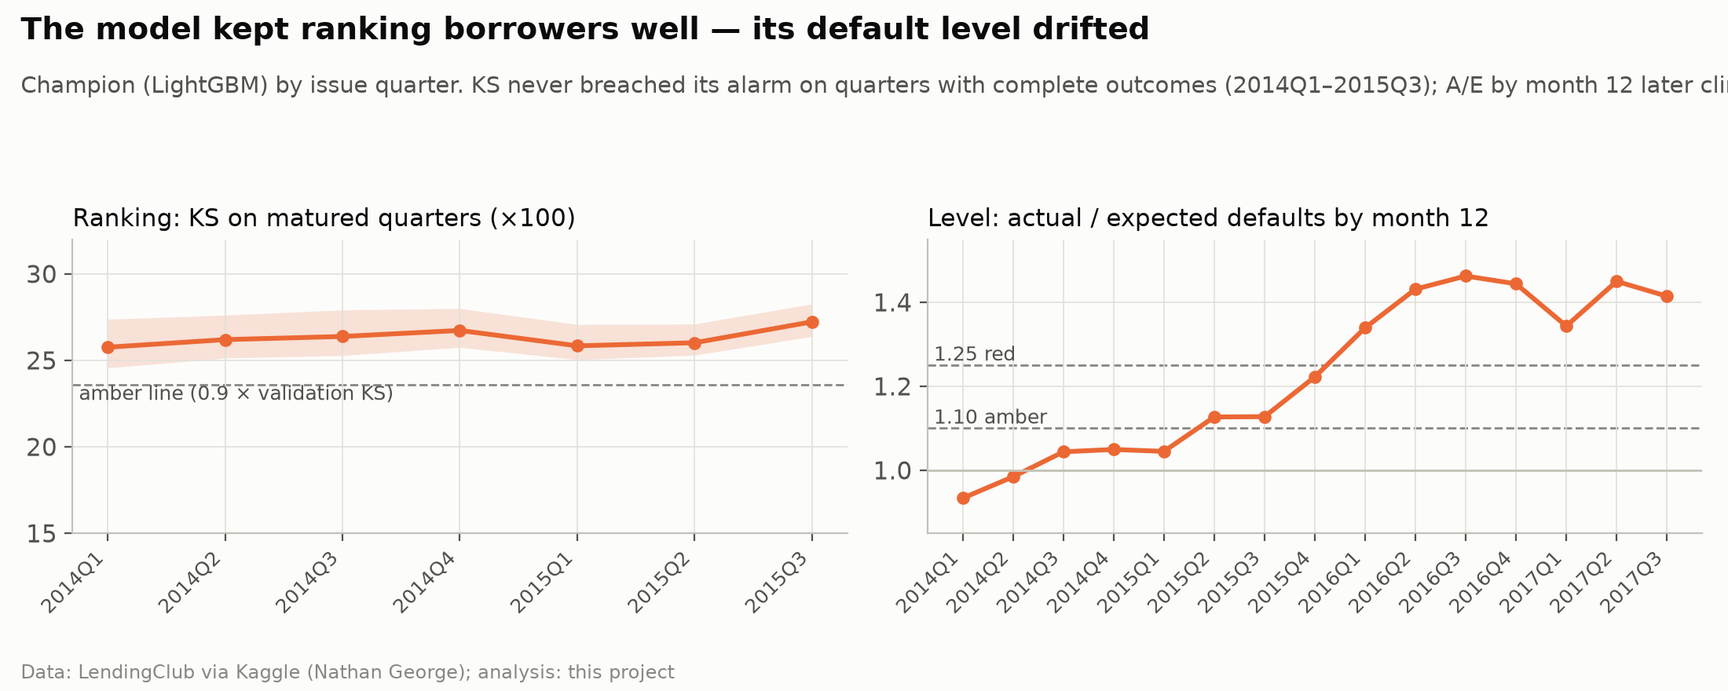
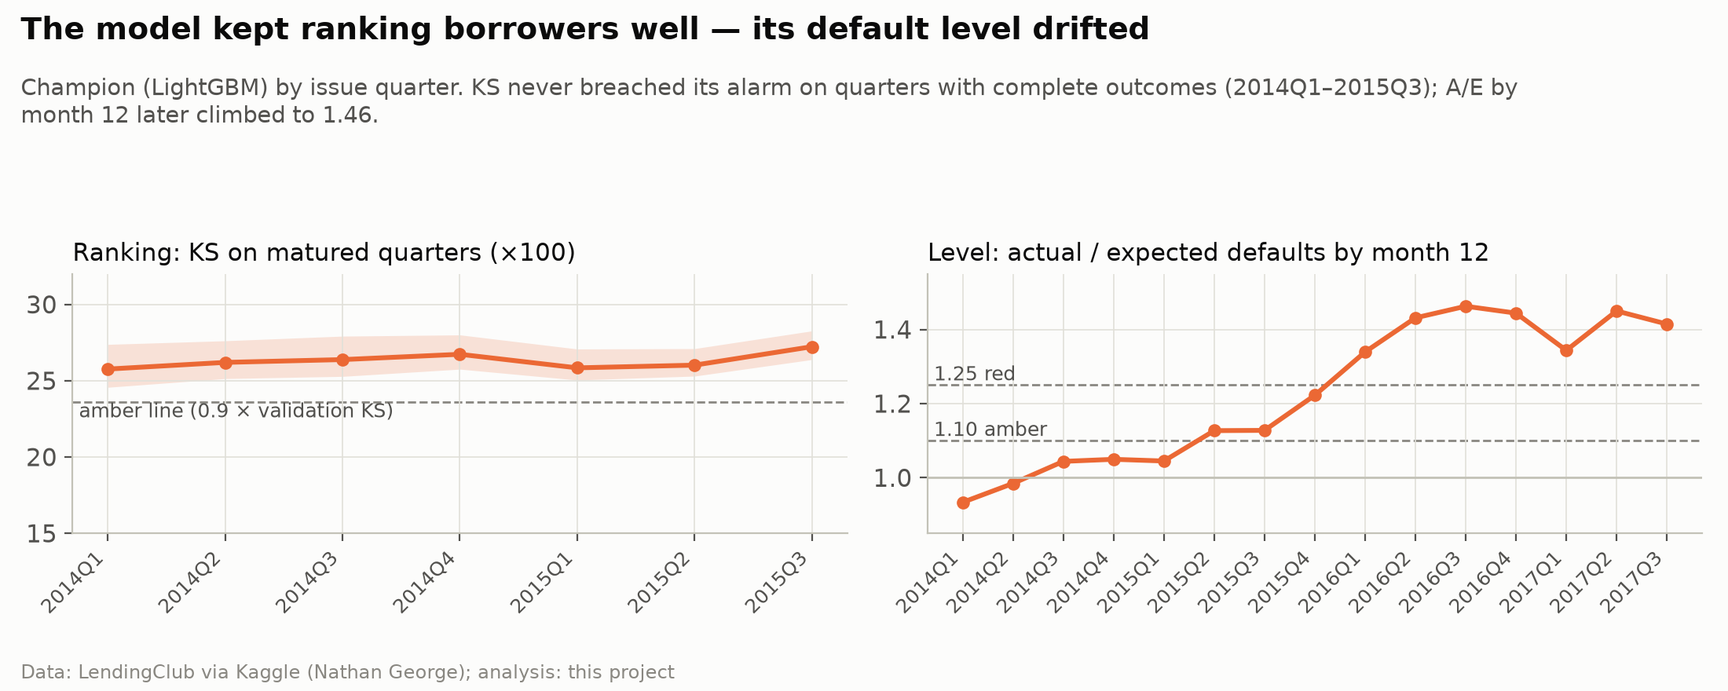
Final pre-publication fixes: one lifetime-PD population, accurate review account, figure wrapping and order
- Lifetime PD: Jan-Sep 2015 vintages (observable to month 36) everywhere: 18.2% / 13.6% / actual 14.7% (survival_A.md, C17 re-derived)
- Article: review history stated accurately (1 critical + 10 major; gate round 1 blocking incl. monotone bug; two results withdrawn)
- Figures: subtitles auto-wrap, build fails on clipped text; renumbered fig1..fig8 in order of appearance
- Rebuild: 62 tests, 36/36 claims, provenance 0 unmatched, re-derivation 31/31

diff --git a/src/report/article_figures.py b/src/report/article_figures.py
@@ -41,12 +41,37 @@ plt.rcParams.update({
 })
 
 
+def _fits(fig, artist, margin=0.985):
+    r = fig.canvas.get_renderer()
+    return artist.get_window_extent(r).x1 <= margin * fig.bbox.width
+
+
 def finish(fig, title, subtitle, name, source=SOURCE):
+    """Title, subtitle (wrapped to as many lines as needed to fit the width) and source; fails if any text is clipped (gate: fig3)."""
+    import textwrap
     h = fig.get_figheight()
     fig.suptitle(title, x=0.012, y=1 - 0.10 / h, ha="left", va="top", fontsize=14, fontweight="bold", color=INK)
-    fig.text(0.012, 1 - 0.48 / h, subtitle, ha="left", va="top", fontsize=10.5, color=INK2)
+    sub = fig.text(0.012, 1 - 0.48 / h, subtitle, ha="left", va="top", fontsize=10.5, color=INK2)
+    width = len(subtitle)
+    while not _fits(fig, sub) and width > 40:
+        width = int(width * 0.9)
+        sub.set_text("\n".join(textwrap.wrap(subtitle, width)))
+    extra = 0.22 * sub.get_text().count("\n")
     fig.text(0.012, 0.08 / h, source, ha="left", fontsize=8.5, color=MUTED)
-    fig.tight_layout(rect=(0, 0.30 / h, 1, 1 - 0.80 / h))
+    fig.tight_layout(rect=(0, 0.30 / h, 1, 1 - (0.80 + extra) / h))
+    fig.canvas.draw()
+    r = fig.canvas.get_renderer()
+    W, Hh = fig.bbox.width, fig.bbox.height
+    drawn = list(fig.texts) + [fig._suptitle]
+    for ax in fig.axes:
+        drawn += [ax.title, ax._left_title, ax._right_title, ax.xaxis.label, ax.yaxis.label] + list(ax.texts)
+        if ax.get_legend():
+            drawn += list(ax.get_legend().get_texts())
+    for t in drawn:
+        if t is None or not t.get_visible() or not str(t.get_text()).strip():
+            continue
+        bb = t.get_window_extent(r)
+        assert bb.x0 >= -1 and bb.x1 <= W + 1 and bb.y0 >= -1 and bb.y1 <= Hh + 1, f"{name}: clipped text {t.get_text()[:40]!r}"
     fig.savefig(OUT / name, dpi=200)
     plt.close(fig)
     print("wrote", OUT / name)
@@ -129,7 +154,7 @@ finish(fig, "The model kept ranking borrowers well — its default level drifted
        f"Champion (LightGBM) by issue quarter. KS never breached its alarm on quarters with complete outcomes (2014Q1–2015Q3); A/E by month 12 later climbed to {m4.AE12_M2.max():.2f}.",
        "fig3_ranking_vs_level.png")
 
-# ------------------------------------------------------------------ Fig 4: PSI is the wrong alarm (calendar time)
+# ------------------------------------------------------------------ Fig 6: PSI is the wrong alarm (calendar time)
 b = load_base(["issue_dt", "issue_q", "bad", "default_mob"]).join(pd.read_parquet(ART / "scores_m2.parquet"))
 b["d6"] = default_by_mob(b.default_mob, 6)
 trm = split_mask(b, TRAIN)
@@ -173,9 +198,9 @@ ax.set_title("Actual / expected defaults, plotted at the date each value became 
 ax.legend(loc="upper left", fontsize=9)
 finish(fig, "Population stability is the wrong alarm: it never fired",
        "Points at the date each value could first be known, if the model were live from 2015 (its own training labels completed only in 2017).",
-       "fig4_alarm_timeline.png")
+       "fig6_alarm_timeline.png")
 
-# ------------------------------------------------------------------ Fig 5: default at MOB 12 by risk band
+# ------------------------------------------------------------------ Fig 7: default at MOB 12 by risk band
 b1 = load_base(["issue_dt", "issue_q", "default_mob"]).join(pd.read_parquet(ART / "scores_m1.parquet", columns=["score_m1"]))
 cuts = np.quantile(b1.loc[split_mask(b1, TRAIN), "score_m1"], [0.2, 0.4, 0.6, 0.8])
 b1["band"] = 1 + np.searchsorted(cuts, b1.score_m1.to_numpy(), side="right")
@@ -194,9 +219,9 @@ ax.set_ylabel("defaulted by month 12, %")
 ax.legend(loc="upper left", fontsize=9, ncol=2)
 finish(fig, "Same score, more defaults: the drift hit every risk band",
        "Share of loans defaulted by month 12, by issue quarter and scorecard band (cut points fixed on 2012–13 training data).",
-       "fig5_bands_mob12.png")
+       "fig7_bands_mob12.png")
 
-# ------------------------------------------------------------------ Fig 6: prepayment as competing risk
+# ------------------------------------------------------------------ Fig 4: prepayment as competing risk
 p2 = pd.read_parquet(INTERIM / "p2_loans.parquet")
 p15 = p2[(p2.yr == 2015) & (p2.issue_dt <= "2015-09-01")].reset_index(drop=True)      # fully observable to MOB 36
 with open(INTERIM / "p2" / "model_A.pkl", "rb") as fh:
@@ -219,9 +244,9 @@ ax.set_ylabel("cumulative default, %")
 ax.legend(loc="upper left")
 finish(fig, f"Treat prepayment as censoring and lifetime PD is overstated by {100*(naive.mean(0)[-1]/C.mean(0)[-1]-1):.0f}%",
        "Loans issued Jan–Sep 2015 (observable to month 36). Model trained on 2012–13; its gap to actual is the 2015 drift.",
-       "fig6_prepayment_competing_risk.png")
+       "fig4_prepayment_competing_risk.png")
 
-# ------------------------------------------------------------------ Fig 7: ECL under-provision + overlay
+# ------------------------------------------------------------------ Fig 8: lifetime-EL backtest + overlay
 ov = json.loads((REP2 / "overlay.json").read_text())
 q = pd.DataFrame(ov["by_quarter"])
 fig, ax = plt.subplots(figsize=(9.5, 4.6))
@@ -242,9 +267,9 @@ tot = ov["total"]
 finish(fig, f"Realised loss came in at {tot['realised/pred']:.2f}× expected; in-sample month-12 overlay closes {100*tot['gap closed MOB12']:.0f}%",
        f"2015 loans; lifetime EL at origination, not an allowance. Overlay = EL × month-12 A/E "
        f"(month-6: {100*tot['gap closed MOB6']:.0f}%). Illustrative.",
-       "fig7_ecl_backtest_overlay.png")
+       "fig8_ecl_backtest_overlay.png")
 
-# ------------------------------------------------------------------ Fig 8: simple cutoff ≈ MILP
+# ------------------------------------------------------------------ Fig 5: simple cutoff vs MILP
 pcj = json.loads((REP2 / "policy_C.json").read_text())["0.05"]
 pc = pd.DataFrame(pcj["table"])
 dfx = pd.DataFrame(pcj["diffs"])
@@ -272,4 +297,4 @@ axes[0].invert_yaxis()
 finish(fig, "The optimiser adds nothing over one PD threshold (exploratory metric)",
        f"Without funding cost, 'approve everyone' looks best. At 5%: MILP − cutoff = −${-dC['point']:.1f}m, 95% CI {dC['95% CI']}. "
        "Levels depend on cash timing.",
-       "fig8_policy_cutoff_vs_milp.png")
+       "fig5_policy_cutoff_vs_milp.png")

diff --git a/src/phase2/fit_A.py b/src/phase2/fit_A.py
@@ -98,6 +98,10 @@ o = ev[(ev.yr == 2015) & ev.bad.notna()]
 gini_life = 2 * Disc(o.pd_life.to_numpy(), o.bad.to_numpy()).auc_ks()[0] - 1
 gini_m2 = 2 * Disc(o.pd_m2.to_numpy(), o.bad.to_numpy()).auc_ks()[0] - 1
 cal = {"OOT mean lifetime PD": o.pd_life.mean(), "OOT final bad rate": o.bad.mean()}
+# like-for-like lifetime comparison (gate: one population for fig + text): 2015Q1–Q3 vintages are observable to MOB 36 at the data cut
+j = (ev.issue_q.isin(["2015Q1", "2015Q2", "2015Q3"])).to_numpy()
+lfl = {"n": int(j.sum()), "naive": 100 * ev.pd_life_naive[j].mean(), "cr": 100 * ev.pd_life[j].mean(),
+       "actual36": 100 * (dmob[j] <= 36).mean()}
 
 fmt = Q.copy()
 for c in [c for c in fmt.columns if c.startswith(("pred", "act", "naive"))]:
@@ -105,6 +109,9 @@ for c in [c for c in fmt.columns if c.startswith(("pred", "act", "naive"))]:
 for c in [c for c in fmt.columns if c.startswith("AE")]:
     fmt[c] = fmt[c].round(3)
 md_ = ["# A — competing-risks lifetime PD (generated by src/phase2/fit_A.py)\n",
+       f"**Prepayment as competing risk vs censoring — loans issued Jan–Sep 2015 (n = {lfl['n']:,}; observable to month 36 at the data cut):** "
+       f"lifetime PD treating prepayment as censoring {lfl['naive']:.1f}%, competing-risks {lfl['cr']:.1f}%, actual cumulative default by month 36 "
+       f"{lfl['actual36']:.1f}%. (Fig. 4 of the article uses this population.)\n",
        f"Train: {len(tr):,} loans (2012-09..2013-12), {len(t):,} loan-months, {int((y==1).sum()):,} defaults, "
        f"{int((y==2).sum()):,} prepayments; Newton converged in {its} iterations.\n",
        "## Coefficients (multinomial logit vs no-event; int_rate & log amount standardised on train)\n",

diff --git a/src/quality/check_claims.py b/src/quality/check_claims.py
@@ -166,9 +166,13 @@ chk("C16", "MOB6 2016–17 flagged (M1 = M2); discovery M2 sensitivity / specifi
     [mt["sensitivity (amber+)"][0].split(" ")[0], cf.loc["M2", "sensitivity"], cf.loc["M2", "specificity"]], "mob6_test.md", "parsed")
 rows[-1]["result"] = rows[-1]["result"] if mt["sensitivity (amber+)"][1].split(" ")[0] == "7/7" else "FAIL"
 pa = pd.read_parquet(ROOT / "data" / "interim" / "p2" / "pred_A.parquet")
-p15 = pa[pa.issue_q.str.startswith("2015")]
-chk("C17", "2015 lifetime PD naive / competing-risks / actual (%)", ["18.0", "13.4", "14.9"],
-    [100 * p15.pd_life_naive.mean(), 100 * p15.pd_life.mean(), 100 * oo.bad.mean()], "pred_A.parquet + p1_base", "re-derived")
+lq = pd.read_parquet(ROOT / "data" / "interim" / "p2_loans.parquet", columns=["issue_dt", "issue_q", "default_mob"])
+lq = lq[pd.to_datetime(lq.issue_dt) >= "2012-10-01"].reset_index(drop=True)          # same rows / order as pred_A (fit_A.py)
+assert (lq.issue_q.to_numpy() == pa.issue_q.to_numpy()).all()
+j = pa.issue_q.isin(["2015Q1", "2015Q2", "2015Q3"]).to_numpy()
+chk("C17", "Jan–Sep 2015 lifetime PD naive / competing-risks / actual default by month 36 (%)", ["18.2", "13.6", "14.7"],
+    [100 * pa.pd_life_naive[j].mean(), 100 * pa.pd_life[j].mean(), 100 * default_by_mob(lq.default_mob[j], 36).mean()],
+    "pred_A.parquet + p2_loans", "re-derived")
 sa = md_table(R2 / "survival_A.md", "A/E of cumulative default by period").set_index("period")
 f = lambda per, cs: [float(sa.loc[per, c]) for c in cs if sa.loc[per, c] not in ("nan", "")]  # noqa: E731
 A3 = ["A/E@12", "A/E@24", "A/E@36"]

diff --git a/notes/07_article_draft.md b/notes/07_article_draft.md
@@ -18,8 +18,12 @@ shifts after I deploy this, will my model still make the right decisions — and
 
 I tried to answer that with LendingClub's public loan book (2.26 million accepted loans, 2007–2018). I used time-based splits only, published
 only aggregates, and wrote the decision rules down before fitting anything. For the first two phases those rules are local git commits, so their
-order is self-attested; the later confirmatory tests were pushed to a private remote before anything was computed. Ten independent reviewers then
-tried to break the results in two rounds. They broke two numbers; both are corrected below, and I say where.
+order is self-attested; the later confirmatory tests were pushed to a private remote before anything was computed. Then I let independent
+reviewers try to break it. A first review found 1 critical and 10 major issues — the critical one: my month-6 "test" was not confirmatory,
+because I had seen those values before setting the thresholds. A ten-reviewer gate then failed its first round on blocking issues, including a
+bug in how the monotone constraints were enforced: fixing it retrained the champion and moved every number built on it. All of these were fixed,
+and two results were withdrawn — the claim that refitting at the reporting date closed a third of the loss gap, and the month-6 "test" result,
+now reported as descriptive. The second gate round passed. Where a correction matters below, I say so.
 
 ## The short version
 
@@ -78,12 +82,13 @@ loans issued in mid-to-late 2016 was about 0.87–0.89 of its 2014 level before 
 
 ### 4. Lifetime PD needs prepayment as a competing risk
 
-*[Figure 6 — fig6_prepayment_competing_risk.png]*
+*[Figure 4 — fig4_prepayment_competing_risk.png]*
 
 TFRS 9 / IFRS 9 needs *lifetime* default probabilities, and prepayment is the dominant way these loans end: 57% of fully repaid 36-month loans
 paid off more than three months early. I fitted a discrete-time hazard with default and prepayment as competing risks. Treat a prepayment as
-"censored" instead — as if the borrower were still exposed to default — and the same hazards give a lifetime PD of **18.0% instead of 13.4%** on
-2015 loans (actual 14.9%): about a third too high. A plain 36-month default model does not have this problem; a survival model does.
+"censored" instead — as if the borrower were still exposed to default — and the same hazards give a lifetime PD of **18.2% instead of 13.6%** for
+loans issued January–September 2015 — the 2015 loans whose first 36 months are fully observable — against an actual 14.7% defaulted by month
+36: about a third too high. A plain 36-month default model does not have this problem; a survival model does.
 
 ### 5. A written-down macro rule caught a fake pass
 
@@ -98,7 +103,7 @@ all three tests stopped it. The rule worked; the macro signal did not.
 
 ### 6. A plain PD cutoff is as good as an optimiser
 
-*[Figure 8 — fig8_policy_cutoff_vs_milp.png]*
+*[Figure 5 — fig5_policy_cutoff_vs_milp.png]*
 
 I let an optimiser (a mixed-integer program over 30 risk × loan-size cells) choose which cells to approve to maximise expected profit under an
 approval floor and a bad-rate cap. My pre-registered profit measure was wrong — it ignored the cost of funds, so "approve everyone" looked best
@@ -122,7 +127,7 @@ issued in early 2014 to **1.46** for loans issued in the third quarter of 2016.
 
 ### 8. Population stability was the wrong alarm — and the real alarm came late
 
-*[Figure 4 — fig4_alarm_timeline.png] [Figure 5 — fig5_bands_mob12.png]*
+*[Figure 6 — fig6_alarm_timeline.png] [Figure 7 — fig7_bands_mob12.png]*
 
 The standard monitoring tool is the population stability index: has the mix of applicants shifted? For the champion it stayed at or below 0.06 in
 every quarter from 2014 to 2018, against an amber line of 0.10. The scorecard's PSI only went amber in 2018, and then because applicants got
@@ -151,7 +156,7 @@ is unspecific — it shows I cannot demonstrate that it is specific. The two fal
 
 ### 10. Expected loss came in short — and a refit made it worse
 
-*[Figure 7 — fig7_ecl_backtest_overlay.png]*
+*[Figure 8 — fig8_ecl_backtest_overlay.png]*
 
 I combined the lifetime PD with loss given default (88.8% — recoveries average only about 11% of the exposure at default) and an amortising
 exposure into a TFRS 9-style expected loss for the 2015 portfolio ($3.62 billion funded): **$100 million** of 12-month expected loss on day one,
@@ -189,7 +194,8 @@ component — a real TFRS 9 model would need one.
 4. **Write the rules down before you look.** The macro rule rejected a result that looked good for the wrong reason, and the early-warning test
    failed where my exploratory analysis had looked promising.
 5. **Recalibration is necessary, not sufficient.** Refitting on what you can see cannot catch drift in vintages too young to have outcomes; pair it
-   with early-performance monitoring — and let an independent reviewer try to break your numbers. Mine broke two of them.
+   with early-performance monitoring — and let independent reviewers try to break your numbers. Mine found a critical flaw, a bug that changed
+   the champion model, and two results I had to withdraw.
 
 *Data: LendingClub, via Kaggle dataset by Nathan George (wordsforthewise). Unemployment: U.S. Bureau of Labor Statistics. Raw data is not
 redistributed; code, aggregates and the full list of claims and limitations are in the project repository.*

diff --git a/notes/04_story.md b/notes/04_story.md
@@ -61,7 +61,7 @@ Exploratory analyses are labelled. Raw data is never published — only code, ag
 - Actual/expected defaults by month 12 climb from 0.93 (2014Q1) to **1.46 (2016Q3)**. *(monitoring.md §2)*
 
 ## 4. Population stability is the wrong alarm
-*Figure 4 — `fig4_alarm_timeline.png`; Figure 5 — `fig5_bands_mob12.png`*
+*Figure 6 — `fig6_alarm_timeline.png`; Figure 7 — `fig7_bands_mob12.png`*
 - The champion's score PSI stays **≤ 0.06 in every quarter 2014–2018** (amber line 0.10). The scorecard's PSI is ≤ 0.03 through 2017Q3 and
   only goes amber in 2018 — because applicants got *better*, not worse. *(monitoring.md §1)*
 - Characteristic-level alerts (CSI) did fire, but in the reassuring direction: revolving utilisation fell (median 59% → 41%) and LendingClub
@@ -78,7 +78,7 @@ Exploratory analyses are labelled. Raw data is never published — only code, ag
   2016Q1, whose truth is knowable the same month as the red alarm. *(reports/phase4/asof_model.md)*
 
 ## 5. An earlier signal? Defaults by month 6 — sensitive, but failed the confirmatory test
-*Figure 4 (green line)*
+*Figure 6 (green line)*
 - Found exploratorily: the month-6 A/E would have gone amber for 2015Q2 by **Jun 2016**, 6 months before the month-12 alarm.
   *(reports/phase1/exploratory_early_signal.md)*
 - In the discovery period (2014Q1–2015Q4) the champion's month-6 signal caught **1 of 2** deteriorated quarters (missed 2015Q4) with no
@@ -93,12 +93,12 @@ Exploratory analyses are labelled. Raw data is never published — only code, ag
   the reference default rate, just under the 1.2× line) had early defaults *arriving earlier*, so A/E6 mixes timing with level. *(reports/phase4/mob6_60m_test.md)*
 
 ## 6. Lifetime PD needs prepayment as a competing risk
-*Figure 6 — `fig6_prepayment_competing_risk.png`*
+*Figure 4 — `fig4_prepayment_competing_risk.png`*
 - Prepayment is the dominant exit: 57% of fully paid 36-month loans repaid > 3 months early. *(01_data_audit.md §8)*
 - A discrete-time competing-risks hazard (default vs prepayment, open loans censored) calibrates to A/E 1.01 in training and 0.98–1.03 on 2014.
-  **Treating prepayment as censoring (same hazards) overstates lifetime PD by about a third: 18.0% vs 13.4%** on the 2015 portfolio
-  (actual 14.9%). A binary 36-month PD already reflects prepayment; the error appears when a hazard/survival model censors prepayments.
-  *(notes/03_phase2_results.md §A; reports/phase2/survival_A.md)* (Figure 6 uses Jan–Sep 2015 loans, observable to month 36: 18.2% vs 13.6% vs actual 14.7%.)
+  **Treating prepayment as censoring (same hazards) overstates lifetime PD by about a third: 18.2% vs 13.6%** on loans issued Jan–Sep 2015
+  (the 2015 vintages observable to month 36 at the data cut; actual cumulative default by month 36: 14.7%). A binary 36-month PD already reflects
+  prepayment; the error appears when a hazard/survival model censors prepayments. *(reports/phase2/survival_A.md; Figure 4)*
 - Out of time it inherits the drift: A/E 1.09–1.12 on 2015, 1.27–1.39 on 2016, 1.43 on 2017 (censoring handled by comparing at equal months on book).
 
 ## 7. Macro data could not explain it — and the rule caught a fake pass
@@ -112,7 +112,7 @@ Exploratory analyses are labelled. Raw data is never published — only code, ag
   default" (level coefficient −0.066). Requiring all three tests blocked it → Plan B (survival + profit policy). *(03_phase2_results.md §B)*
 
 ## 8. Lifetime expected loss under-predicted realised loss — and refitting on what was knowable would not have fixed it
-*Figure 7 — `fig7_ecl_backtest_overlay.png`*
+*Figure 8 — `fig8_ecl_backtest_overlay.png`*
 - TFRS 9-style ECL = PD (competing-risks) × LGD × EAD (amortising), discounted at the loan rate. LGD = **88.8%** of exposure at default.
 - 2015 portfolio ($3.62bn funded): day-1 12-month ECL **$100m (2.7%)** — the Stage 1 allowance at origination — and lifetime ECL **$201m (5.5%)**.
 - Backtest (not a booked provision): undiscounted lifetime expected loss at origination **$232m vs realised net loss $274m (realised = 1.18×
@@ -135,7 +135,7 @@ Exploratory analyses are labelled. Raw data is never published — only code, ag
   backstops (2–3 / ≥ 4 missed) the counts are 1,521 and 1,640. Delinquencies that later cured are invisible. *(ecl.md; 10 E4)*
 
 ## 9. A good PD cutoff is enough — the hard part is its level
-*Figure 8 — `fig8_policy_cutoff_vs_milp.png`*
+*Figure 5 — `fig5_policy_cutoff_vs_milp.png`*
 - A MILP chose approval cells (PD decile × amount) to maximise expected NPV under approval ≥ 75% and expected bad ≤ 11%.
 - On the pre-registered metric (undiscounted realised profit), **approve-everyone wins ($230m vs MILP $222m)** — the metric was wrong: it
   charges no cost of funds. *(reports/phase2/policy_C.md)*

diff --git a/reports/quality/claims_check.md b/reports/quality/claims_check.md
@@ -22,7 +22,7 @@ Generated by src/quality/check_claims.py. 'how' says whether the number was re-d
 | C14  | first amber (M2) quarter / knowable; first red knowable M2, M1; loans 2015Q2–16Q4                                              | 2015Q2, Dec 2016, Sep 2017, Jun 2017, 544,642  | 2015Q2, Dec 2016, Sep 2017, Jun 2017, 544642   | yes                             | PASS     | read + count                                      | monitoring.json + p1_base      |
 | C15  | MOB6 first amber (M2) knowable                                                                                                 | Jun 2016                                       | Jun 2016                                       | yes                             | PASS     | parsed                                            | exploratory_early_signal.md    |
 | C16  | MOB6 2016–17 flagged (M1 = M2); discovery M2 sensitivity / specificity (descriptive)                                           | 7/7, 1/2, 6/6                                  | 7/7, 1/2, 6/6                                  | yes                             | PASS     | parsed                                            | mob6_test.md                   |
-| C17  | 2015 lifetime PD naive / competing-risks / actual (%)                                                                          | 18.0, 13.4, 14.9                               | 18.0, 13.4, 14.9                               | yes                             | PASS     | re-derived                                        | pred_A.parquet + p1_base       |
+| C17  | Jan–Sep 2015 lifetime PD naive / competing-risks / actual default by month 36 (%)                                              | 18.2, 13.6, 14.7                               | 18.2, 13.6, 14.7                               | yes                             | PASS     | re-derived                                        | pred_A.parquet + p2_loans      |
 | C18  | A/E train (mean @12/24/36); 2014 min/max; 2015 min/max; 2016 min/max; 2017 @12                                                 | 1.01, 0.98, 1.03, 1.09, 1.12, 1.27, 1.39, 1.43 | 1.01, 0.98, 1.03, 1.09, 1.12, 1.27, 1.39, 1.43 | yes                             | PASS     | parsed                                            | survival_A.md                  |
 | C19  | θ [CI]; rule b rel. change %; stress multiplier                                                                                | -0.045, -0.099, -0.009, -28.0, 0.89            | -0.045, -0.099, -0.009, -28.0, 0.89            | yes                             | PASS     | read                                              | macro_B.json                   |
 | C20  | γ_u default (level coefficient)                                                                                                | -0.066                                         | -0.066                                         | yes                             | PASS     | read                                              | macro_B.json                   |

diff --git a/notes/05_claims_and_limitations.md b/notes/05_claims_and_limitations.md
@@ -24,7 +24,7 @@
 | C14 | Relative to a counterfactual 2015 deployment, the first pre-registered label alarm came 18 months after the first worse vintage; ~545k loans booked meanwhile. | month-12 A/E amber for 2015Q2, knowable Dec 2016; red Sep 2017 (champion) / Jun 2017 (scorecard); 544,642 loans 2015Q2–2016Q4 | PRE-REG (signal + truth definitions) | monitoring.md §2, §4; 02_phase1_results.md §7 |
 | C15 | Month-6 A/E would have flagged 2015Q2 six months earlier. | amber knowable Jun 2016 | EXPL (discovered here) | reports/phase1/exploratory_early_signal.md |
 | C16 | Month-6 A/E is red in every 2016–17 quarter; in the discovery period the champion's version caught 1 of 2 deteriorated quarters with no false alarms. Not a confirmatory test (values seen before thresholds were registered; lead time 6 months by construction). | 7/7; discovery M2 1/2 sensitivity, 6/6 specificity | DESC / EXPL (relabelled after review CR-1) | reports/phase2/mob6_test.md |
-| C17 | Treating prepayment as censoring (same hazards) overstates lifetime PD by about a third. | 18.0% vs 13.4% (2015 portfolio; actual 14.9% final, 14.7% by month 36 — the like-for-like comparison) | PRE-REG (demo specified in prereg) | notes/03_phase2_results.md §A; reports/phase2/survival_A.md |
+| C17 | Treating prepayment as censoring (same hazards) overstates lifetime PD by about a third. | 18.2% vs 13.6% for loans issued Jan–Sep 2015 (observable to month 36); actual cumulative default by month 36: 14.7% | PRE-REG (demo specified in prereg) | notes/03_phase2_results.md §A; reports/phase2/survival_A.md |
 | C18 | The competing-risks model is well calibrated in time at portfolio level (not by band, C22) but inherits the drift out of time. | A/E 1.01 train, 0.98–1.03 (2014), 1.09–1.12 (2015), 1.27–1.39 (2016), 1.43 (2017) | PRE-REG (evaluation spec) | survival_A.md |
 | C19 | State unemployment failed the pre-registered macro rule; the adverse scenario lowered PD. | (a) θ −0.045 [−0.099, −0.009] FAIL (not positive; subsample redrawn per bootstrap replicate; earlier runs −0.019 and −0.038, all negative); (b) −28.0% PASS; (c) 0.89 FAIL | PRE-REG | reports/phase2/macro_B.md |
 | C20 | The (b) pass is spurious time-trend confounding. | level coefficient −0.066; unemployment fell while defaults rose | Interpretation of PRE-REG output | macro_B.md; 03_phase2_results.md §B |

diff --git a/notes/03_phase2_results.md b/notes/03_phase2_results.md
@@ -18,7 +18,8 @@ for s in build_loans fit_A rule_B ecl policy_C mob6_test; do nice -n 19 .venv/bi
 
 1. **A ใช้ได้ (ระดับ portfolio):** competing-risks hazard (default vs prepayment, Current = censored) fit บน 2012-09–2013-12 ให้ A/E ≈ 1.00 ใน train
    และ 0.98–1.03 บน validation 2014 (ราย band ไม่ calibrate — ดู by-band A/E / C22) แต่ under-predict ตาม drift ที่เห็นใน Phase 1: OOT 2015 A/E 1.09–1.12, 2016 1.27–1.39, 2017 1.43 (MOB 12).
-   ถ้า treat prepayment เป็น censoring (hazard เดิม), lifetime PD จะ over-state จาก 13.4% → 18.0% (+34% relative)
+   ถ้า treat prepayment เป็น censoring (hazard เดิม), lifetime PD จะ over-state: loans Jan–Sep 2015 (ดูได้ครบ 36 เดือน) 13.6% → 18.2% (actual ภายใน MOB 36 = 14.7%);
+   ทั้งปี 2015 13.4% → 18.0% (ตารางด้านล่าง; Q4 ยังดูไม่ครบ 36 เดือน)
 2. **B ไม่ผ่าน Plan B rule → เปลี่ยนเป็น A + C** (ตามกฎที่เขียนไว้ก่อน Phase 1): (a) FAIL — θ ไม่เป็นบวก: −0.045 [−0.099, −0.009] (E3: subsample สุ่มใหม่ทุก replicate; run ก่อนหน้า −0.019 และ −0.038 — ติดลบทุกครั้ง แต่ตำแหน่ง CI เปราะ);
    (b) PASS แบบ "ถูกด้วยเหตุผลผิด"; (c) FAIL — adverse/baseline = 0.89 (adverse ทำให้ PD **ลดลง**) → macro signal ถูก confound กับ drift ของ LC
 3. **ECL (score-only, ไม่มี forward-looking overlay):** 2015 portfolio funded $3.62bn → day-1 12m ECL $100m (2.7%), lifetime ECL $201m (5.5%).

diff --git a/README.md b/README.md
@@ -18,7 +18,7 @@ extension pre-registration (E1–E5, commit 4562602) and the review-gate rubric 
   vintage ≥ 1.2× the 2012–13 month-12 default rate — 18 months of that is the month-12 observation window itself.
 - A month-6 early-warning signal caught 9/9 deteriorated quarters but **failed** its pre-registered confirmatory test on 60-month loans
   (specificity 4/6 = 67% < 80%; with 6 negative quarters, specificity is not demonstrated).
-- Treating prepayment as censoring overstates lifetime PD by about a third (18.0% vs 13.4%).
+- Treating prepayment as censoring overstates lifetime PD by about a third (18.2% vs 13.6%, loans issued Jan–Sep 2015; actual 14.7% by month 36).
 - State unemployment failed the pre-registered macro rule (the "adverse" scenario lowered PD) → no forward-looking macro overlay.
 - Lifetime expected loss under-predicted the 2015 vintage's realised loss (realised = 1.18× predicted). Refitting at the reporting date on
   outcomes knowable then (months 1–21, tail from the reference model) makes it worse — 1.27×, a lower bound (1.41× with a knowable tail):

diff --git a/notes/STATUS.md b/notes/STATUS.md
@@ -57,7 +57,7 @@ In Phase 2, B goes ahead **only if all three hold**. If any one fails → switch
 
 ## Done — Phase 2 (A + Plan B → A + C, ECL) ✅ — notes/03_phase2_results.md
 - A: competing-risks lifetime PD — A/E 1.01 train, 0.98–1.03 (2014), 1.09–1.12 (2015), 1.27–1.39 (2016), 1.43 (2017);
-  censor prepayment แทน → lifetime PD 18.0% vs 13.4%
+  censor prepayment แทน → lifetime PD 18.2% vs 13.6% (loans Jan–Sep 2015 ที่ดูได้ครบ 36 เดือน; actual 14.7%)
 - B FAIL → A + C: (a) θ −0.045 [−0.099, −0.009] (ไม่เป็นบวก), (b) PASS แบบหลอก (−28.0%), (c) 0.89
 - ECL 2015 (score-only, LGD 88.8%): day-1 12m $99.6m (2.7%), lifetime $200.6m (5.5%); backtest realised $273.8m = 1.18× predicted EL $232.4m
   (in-sample 1.03× — EAD structural); overlay MOB-12 ปิด gap 57% (illustrative). Staging (E4, ex-post): stage 2 1,571 loans, stage 3 2,300 loans

diff --git a/reports/phase2/survival_A.md b/reports/phase2/survival_A.md
@@ -1,5 +1,7 @@
 # A — competing-risks lifetime PD (generated by src/phase2/fit_A.py)
 
+**Prepayment as competing risk vs censoring — loans issued Jan–Sep 2015 (n = 194,363; observable to month 36 at the data cut):** lifetime PD treating prepayment as censoring 18.2%, competing-risks 13.6%, actual cumulative default by month 36 14.7%. (Fig. 4 of the article uses this population.)
+
 Train: 120,683 loans (2012-09..2013-12), 3,030,762 loan-months, 14,902 defaults, 61,594 prepayments; Newton converged in 10 iterations.
 
 ## Coefficients (multinomial logit vs no-event; int_rate & log amount standardised on train)

diff --git a/reports/quality/note_numbers_check.md b/reports/quality/note_numbers_check.md
@@ -1,4 +1,4 @@
-# Note number provenance — 3116 numeric tokens checked; 3106 matched a report value, 10 matched an independently re-derived count, 15 explained exceptions, 0 unmatched
+# Note number provenance — 3129 numeric tokens checked; 3119 matched a report value, 10 matched an independently re-derived count, 15 explained exceptions, 0 unmatched
 
 Re-derived counts: 1,364,557 ✓, 1,433,835 ✓, 1,485,240 ✓, 2,749 ✓, 473 ✓, 544,642 ✓
 
